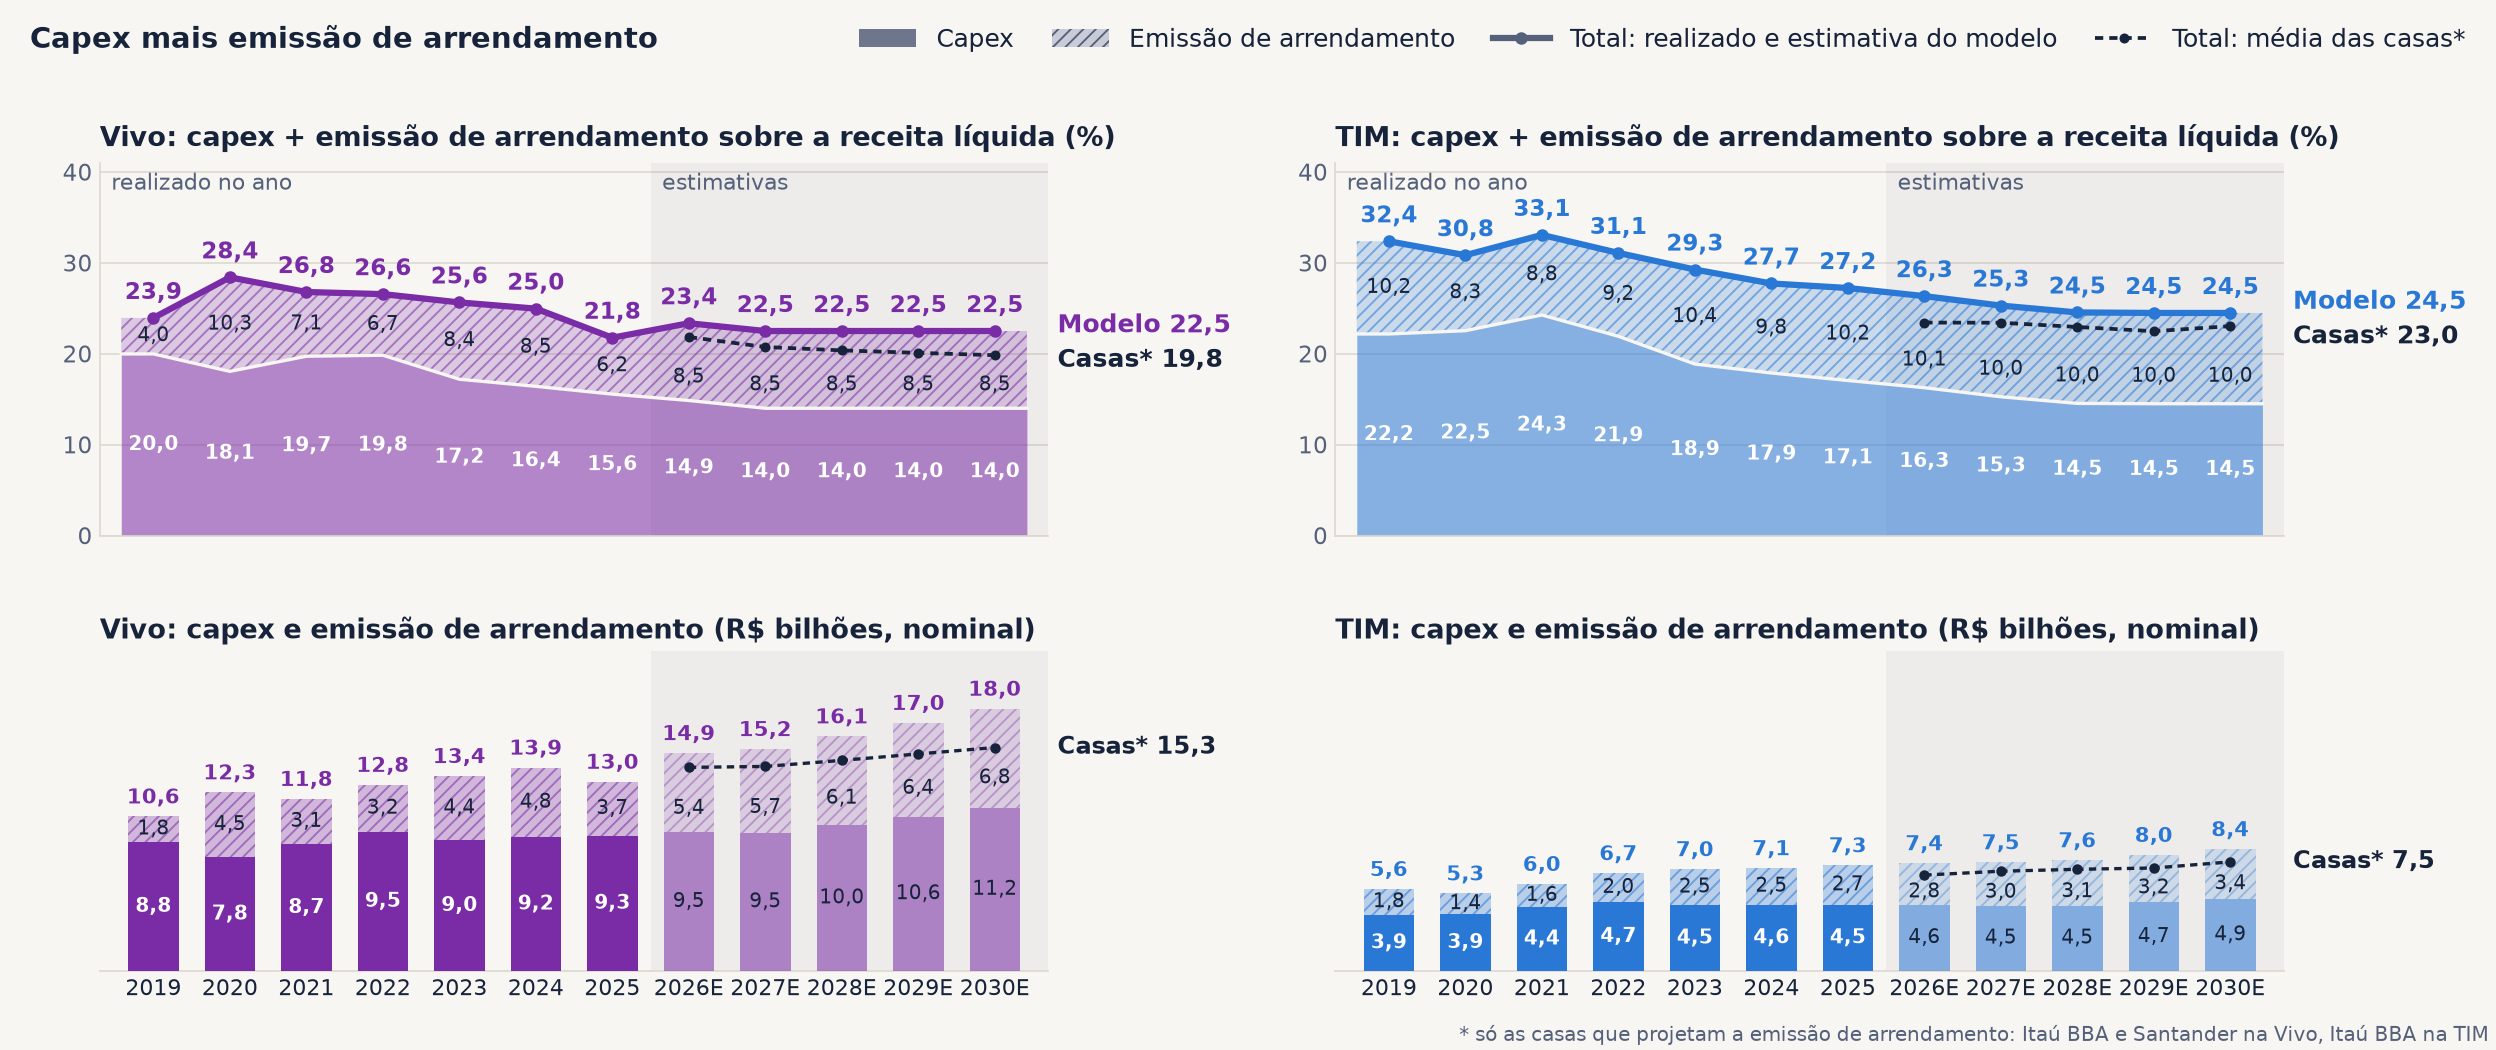
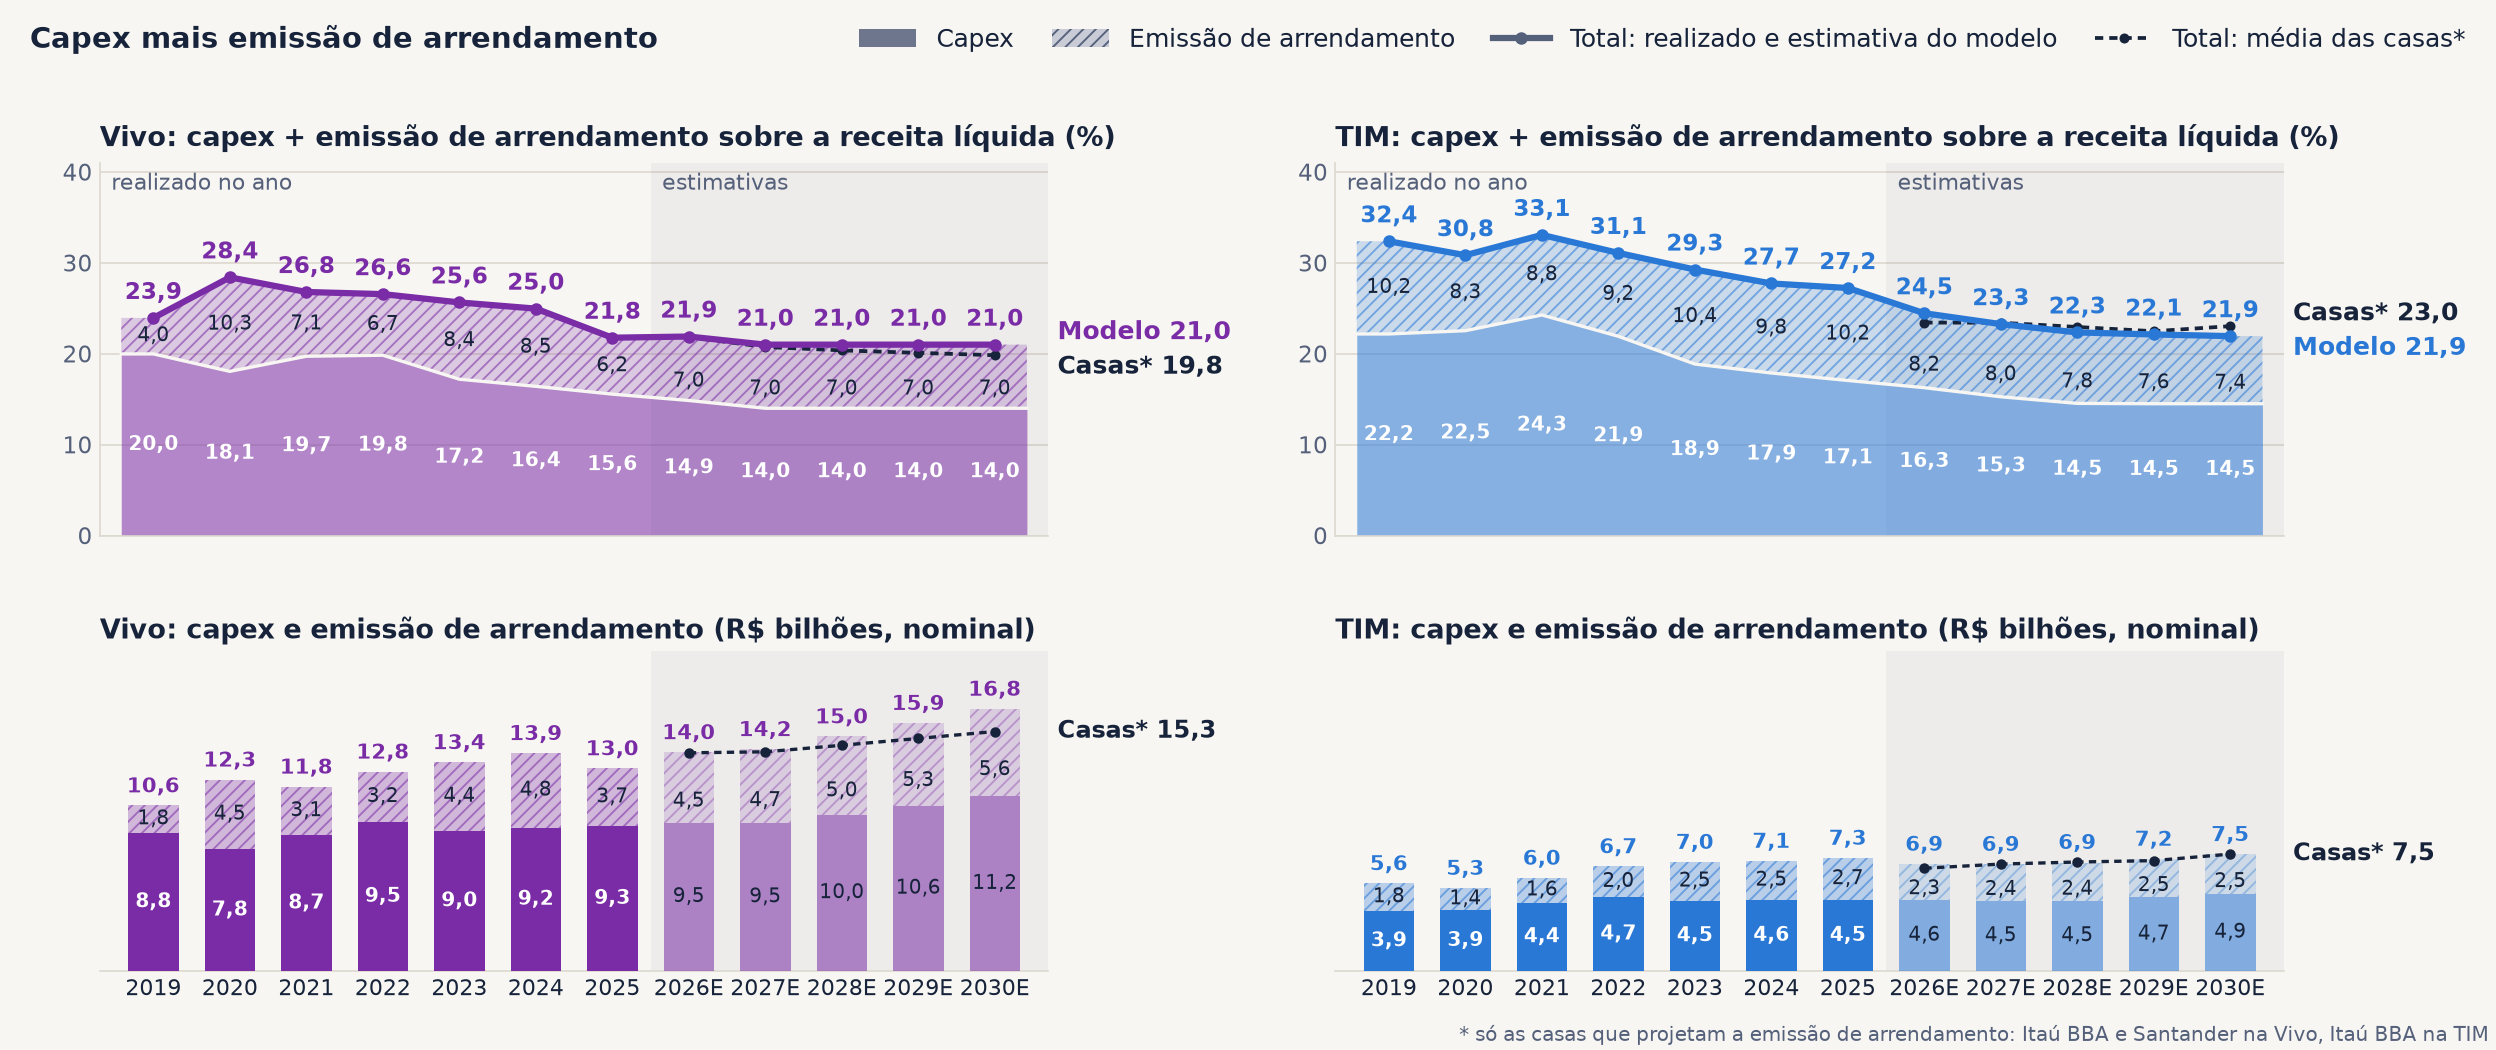
v5.1 - 24/11/2026 22:17 - slide 11: emissao de arrendamento menor
Vivo: emissao de 4,5 bi em 2026E e 7,0% da receita depois (VivoMOD v20).
TIM: emissao de 2,3 bi em 2026E e +2,5% ao ano depois (TimMOD v9).

diff --git a/index.html b/index.html
@@ -40,7 +40,7 @@ h1, h2, h3 { font-family:'Space Grotesk', Arial, sans-serif; }
 <div id="palco">
 <section id="capa" class="capa" data-transition="fade">
 <div>
-<p class="chip">v5.0 · 24/11/2026 22:08</p>
+<p class="chip">v5.1 · 24/11/2026 22:17</p>
 </div>
 <div>
 <h1>Telecom Brasil: Vivo e TIM</h1>
@@ -113,10 +113,10 @@ h1, h2, h3 { font-family:'Space Grotesk', Arial, sans-serif; }
 </section>
 <section id="capex-emis" data-transition="fade">
 <p class="olho">4 · CAPEX MAIS EMISSÃO DE ARRENDAMENTO: MODELO CONTRA AS CASAS</p>
-<h2 class="titulo">Com a emissão de arrendamento, o investimento é 21,8% da receita na Vivo e 27,2% na TIM em 2025; o modelo mantém 22,5% e 24,5%, acima das casas</h2>
+<h2 class="titulo">Com a emissão de arrendamento, o investimento é 21,8% da receita na Vivo e 27,2% na TIM em 2025; o modelo vai a 21,0% e 21,9%, perto das casas</h2>
 <img class="graf" src="img/v7b_capex_emissao.png" alt="Quatro gráficos de 2019 a 2030 estimado, Vivo e TIM na mesma escala. Em cima, capex e emissão de arrendamento sobre a receita líquida, empilhados, com a linha do total, a estimativa do modelo e a média das casas que projetam a emissão. Embaixo, capex e emissão de arrendamento em bilhões de reais nominais, em barras empilhadas, com o total em cima de cada barra e a média das mesmas casas">
 <p class="fonte">Fonte: planilhas de RI e modelos de 24/11/2026. Capex sem licenças; emissão = adições de arrendamento do ano (IFRS 16, desde 2019). Casas*: só as que projetam a emissão (Itaú BBA e Santander na Vivo, Itaú BBA na TIM).</p>
-<aside>Capex mais emissão de arrendamento sobre a receita. Vivo: 23,9% em 2019, 28,4% em 2020, 26,8% em 2021, 26,6% em 2022, 25,6% em 2023, 25,0% em 2024 e 21,8% em 2025; a emissão sozinha foi 4,0%, 10,3%, 7,1%, 6,7%, 8,4%, 8,5% e 6,2% da receita, e 9,2% nos 12 meses até o 3T26 (total de 24,4%). Em reais: de R$ 10,6 bilhões em 2019 para R$ 13,9 bilhões em 2024 e R$ 13,0 bilhões em 2025, com a emissão indo de R$ 1,8 bilhão para R$ 4,8 bilhões e R$ 3,7 bilhões. O modelo emite 8,5% da receita de 2026E em diante: total de 23,4% em 2026E e 22,5% de 2027E a 2030E, de R$ 14,9 bilhões para R$ 18,0 bilhões. As duas casas que projetam a emissão (Itaú BBA e Santander) ficam em 21,8%, 20,7%, 20,4%, 20,1% e 19,8% na média, com emissão perto de 6% da receita e total de R$ 15,3 bilhões em 2030E; o modelo fica 2,7 pontos e R$ 2,7 bilhões acima em 2030E, quase tudo pela emissão. TIM: 32,4% em 2019, 30,8% em 2020, 33,1% em 2021, 31,1% em 2022, 29,3% em 2023, 27,7% em 2024 e 27,2% em 2025; a emissão foi 10,2%, 8,3%, 8,8%, 9,2%, 10,4%, 9,8% e 10,2% da receita. Em reais: de R$ 5,6 bilhões em 2019 para R$ 7,3 bilhões em 2025, com a emissão indo de R$ 1,8 bilhão para R$ 2,7 bilhões. O modelo emite 10,0% da receita: total de 26,3% em 2026E, 25,3% em 2027E e 24,5% de 2028E a 2030E, de R$ 7,4 bilhões para R$ 8,4 bilhões. O Itaú BBA, única casa que projeta a emissão da TIM, fica em 23,4%, 23,4%, 22,9%, 22,5% e 23,0%, com emissão de 7,5% da receita e total de R$ 7,5 bilhões em 2030E; o modelo fica 1,5 ponto e R$ 0,9 bilhão acima, com capex menor e emissão maior. Leitura: de 2019 a 2025 o capex sobre a receita caiu 4,4 pontos na Vivo e 5,1 na TIM, mas o total com arrendamento caiu 2,1 e 5,2 pontos; na Vivo, metade da queda do capex foi trocada por arrendamento, e nos 12 meses até o 3T26 o total está acima de 2019. A emissão é volátil de um ano para o outro, mistura contrato novo com renovação e reajuste e não pega contrato de serviço; vale mais a média de alguns anos que o ano isolado (Vivo 2021 a 2025: 7,4% da receita).</aside>
+<aside>Capex mais emissão de arrendamento sobre a receita. Vivo: 23,9% em 2019, 28,4% em 2020, 26,8% em 2021, 26,6% em 2022, 25,6% em 2023, 25,0% em 2024 e 21,8% em 2025; a emissão sozinha foi 4,0%, 10,3%, 7,1%, 6,7%, 8,4%, 8,5% e 6,2% da receita, e 9,2% nos 12 meses até o 3T26. Em reais: de R$ 10,6 bilhões em 2019 para R$ 13,9 bilhões em 2024 e R$ 13,0 bilhões em 2025, com a emissão indo de R$ 1,8 bilhão para R$ 4,8 bilhões e R$ 3,7 bilhões. Premissa nova de 24/11/2026: emissão de R$ 4,5 bilhões em 2026E (os nove meses somam R$ 3,65 bilhões, com R$ 2,4 bilhões no 3T26; fechar em R$ 4,5 bilhões pede um 4T26 de R$ 0,85 bilhão, contra cerca de R$ 2,2 bilhões em cada um dos três últimos quartos trimestres) e 7,0% da receita de 2027E em diante (antes 8,5%). Total de 21,9% em 2026E e 21,0% de 2027E a 2030E, de R$ 14,0 bilhões para R$ 16,8 bilhões. As duas casas que projetam a emissão (Itaú BBA e Santander) ficam em 21,8%, 20,7%, 20,4%, 20,1% e 19,8% na média, com emissão perto de 6% da receita e total de R$ 15,3 bilhões em 2030E; o modelo fica 1,2 ponto e R$ 1,5 bilhão acima em 2030E. TIM: 32,4% em 2019, 30,8% em 2020, 33,1% em 2021, 31,1% em 2022, 29,3% em 2023, 27,7% em 2024 e 27,2% em 2025; a emissão foi 10,2%, 8,3%, 8,8%, 9,2%, 10,4%, 9,8% e 10,2% da receita. Em reais: de R$ 5,6 bilhões em 2019 para R$ 7,3 bilhões em 2025, com a emissão indo de R$ 1,8 bilhão para R$ 2,7 bilhões. Premissa nova de 24/11/2026: emissão de R$ 2,3 bilhões em 2026E (os nove meses somam R$ 1,66 bilhão; 4T26 de R$ 0,64 bilhão, igual ao 4T25) e crescimento de 2,5% ao ano depois, metade do ritmo da receita (antes crescia com a receita móvel). A emissão cai de 10,2% da receita em 2025 para 8,2% em 2026E e 7,4% em 2030E; total de 24,5% em 2026E, 23,3% em 2027E e 21,9% em 2030E, com R$ 6,9 bilhões parados de 2026E a 2028E e R$ 7,5 bilhões em 2030E. O Itaú BBA, única casa que projeta a emissão da TIM, fica em 23,4%, 23,4%, 22,9%, 22,5% e 23,0%, com emissão de 7,5% da receita e total de R$ 7,5 bilhões em 2030E; o modelo fica 1,1 ponto abaixo em 2030E (capex 1,1 ponto menor, emissão igual) e igual em reais, porque a receita do modelo é maior. Leitura: de 2019 a 2025 o capex sobre a receita caiu 4,4 pontos na Vivo e 5,1 na TIM, mas o total com arrendamento caiu 2,1 e 5,2 pontos; na Vivo, metade da queda do capex foi trocada por arrendamento, e nos 12 meses até o 3T26 o total (24,4%) está acima de 2019. A emissão é volátil de um ano para o outro, mistura contrato novo com renovação e reajuste e não pega contrato de serviço; vale mais a média de alguns anos que o ano isolado (Vivo 2021 a 2025: 7,4% da receita; TIM: 9,7%).</aside>
 </section>
 <section id="arrend" data-transition="fade">
 <p class="olho">4A · EMISSÃO DE ARRENDAMENTO × PAGAMENTO DE PRINCIPAL</p>

diff --git a/README.md b/README.md
@@ -1,3 +1,3 @@
 # Telecom Brasil: Vivo e TIM
 
-Deck de telecom (v5.0 · 24/11/2026 22:08): o setor contra a inflação e o PIB, receita, margem, EBITDA, capex e arrendamento, lucro, payout, Fistel e valuation de Vivo e TIM.
+Deck de telecom (v5.1 · 24/11/2026 22:17): o setor contra a inflação e o PIB, receita, margem, EBITDA, capex e arrendamento, lucro, payout, Fistel e valuation de Vivo e TIM.
